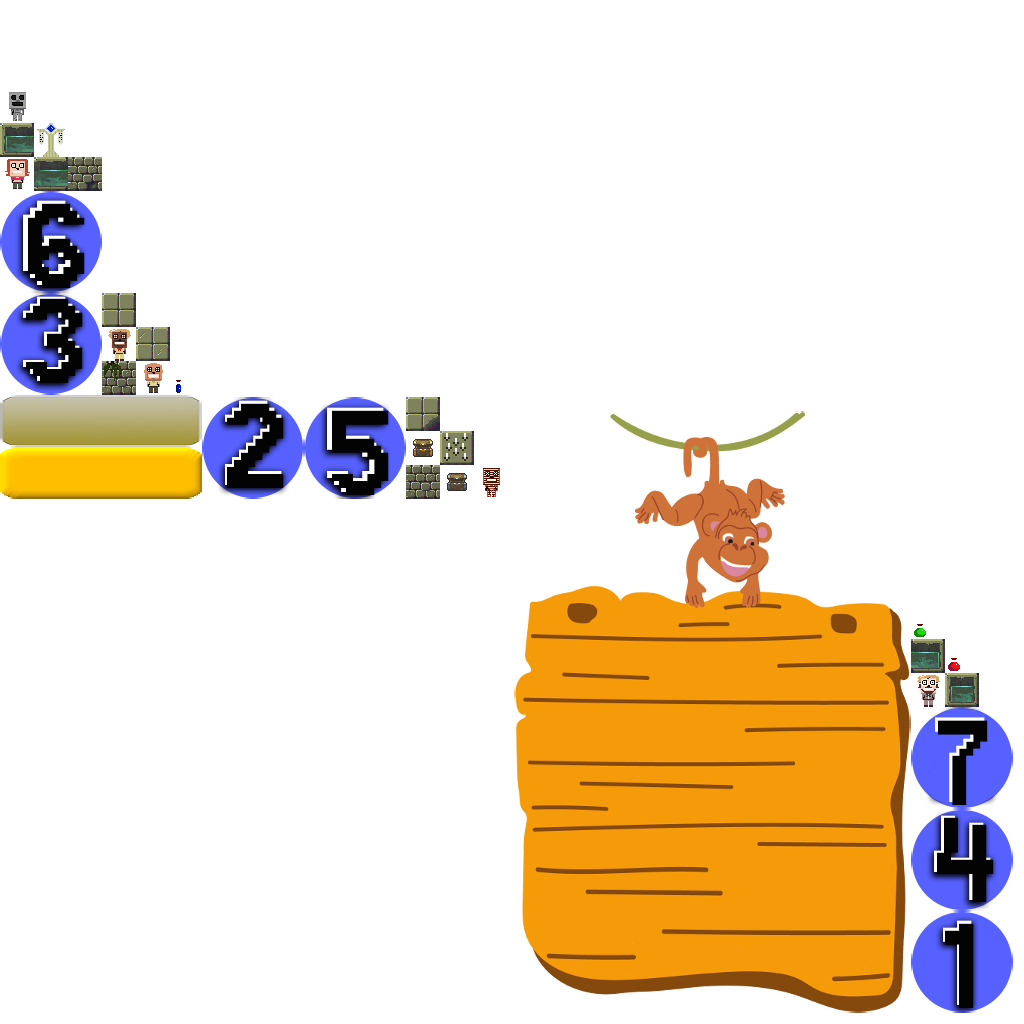
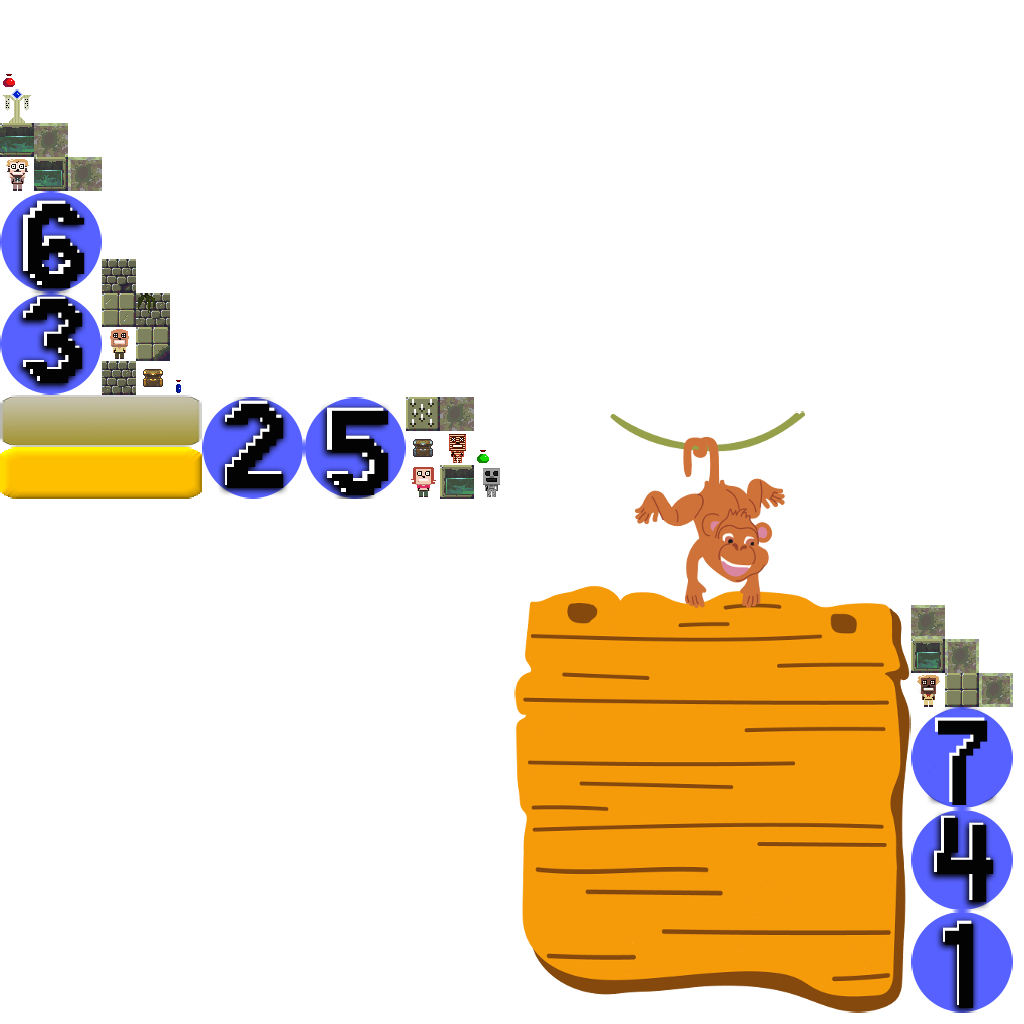
Updated assets to include walls

diff --git a/core/src/aston/team15/jumazy/controller/JumazyController.java b/core/src/aston/team15/jumazy/controller/JumazyController.java
@@ -24,7 +24,7 @@ public class JumazyController extends Game {
 	@Override
 	public void create() {
 		textures = new TextureAtlas("jumazyskin/jumazy-skin.atlas");
-		Gdx.gl.glClearColor(1, 0, 0, 1);
+		Gdx.gl.glClearColor(0.15f, 0.15f, 0.15f, 1);
 
 		// using a skin, with json, png, and atlas, reduces a lot of the workload
 		// needlessly put on the GPU when having to load in many individual png's
